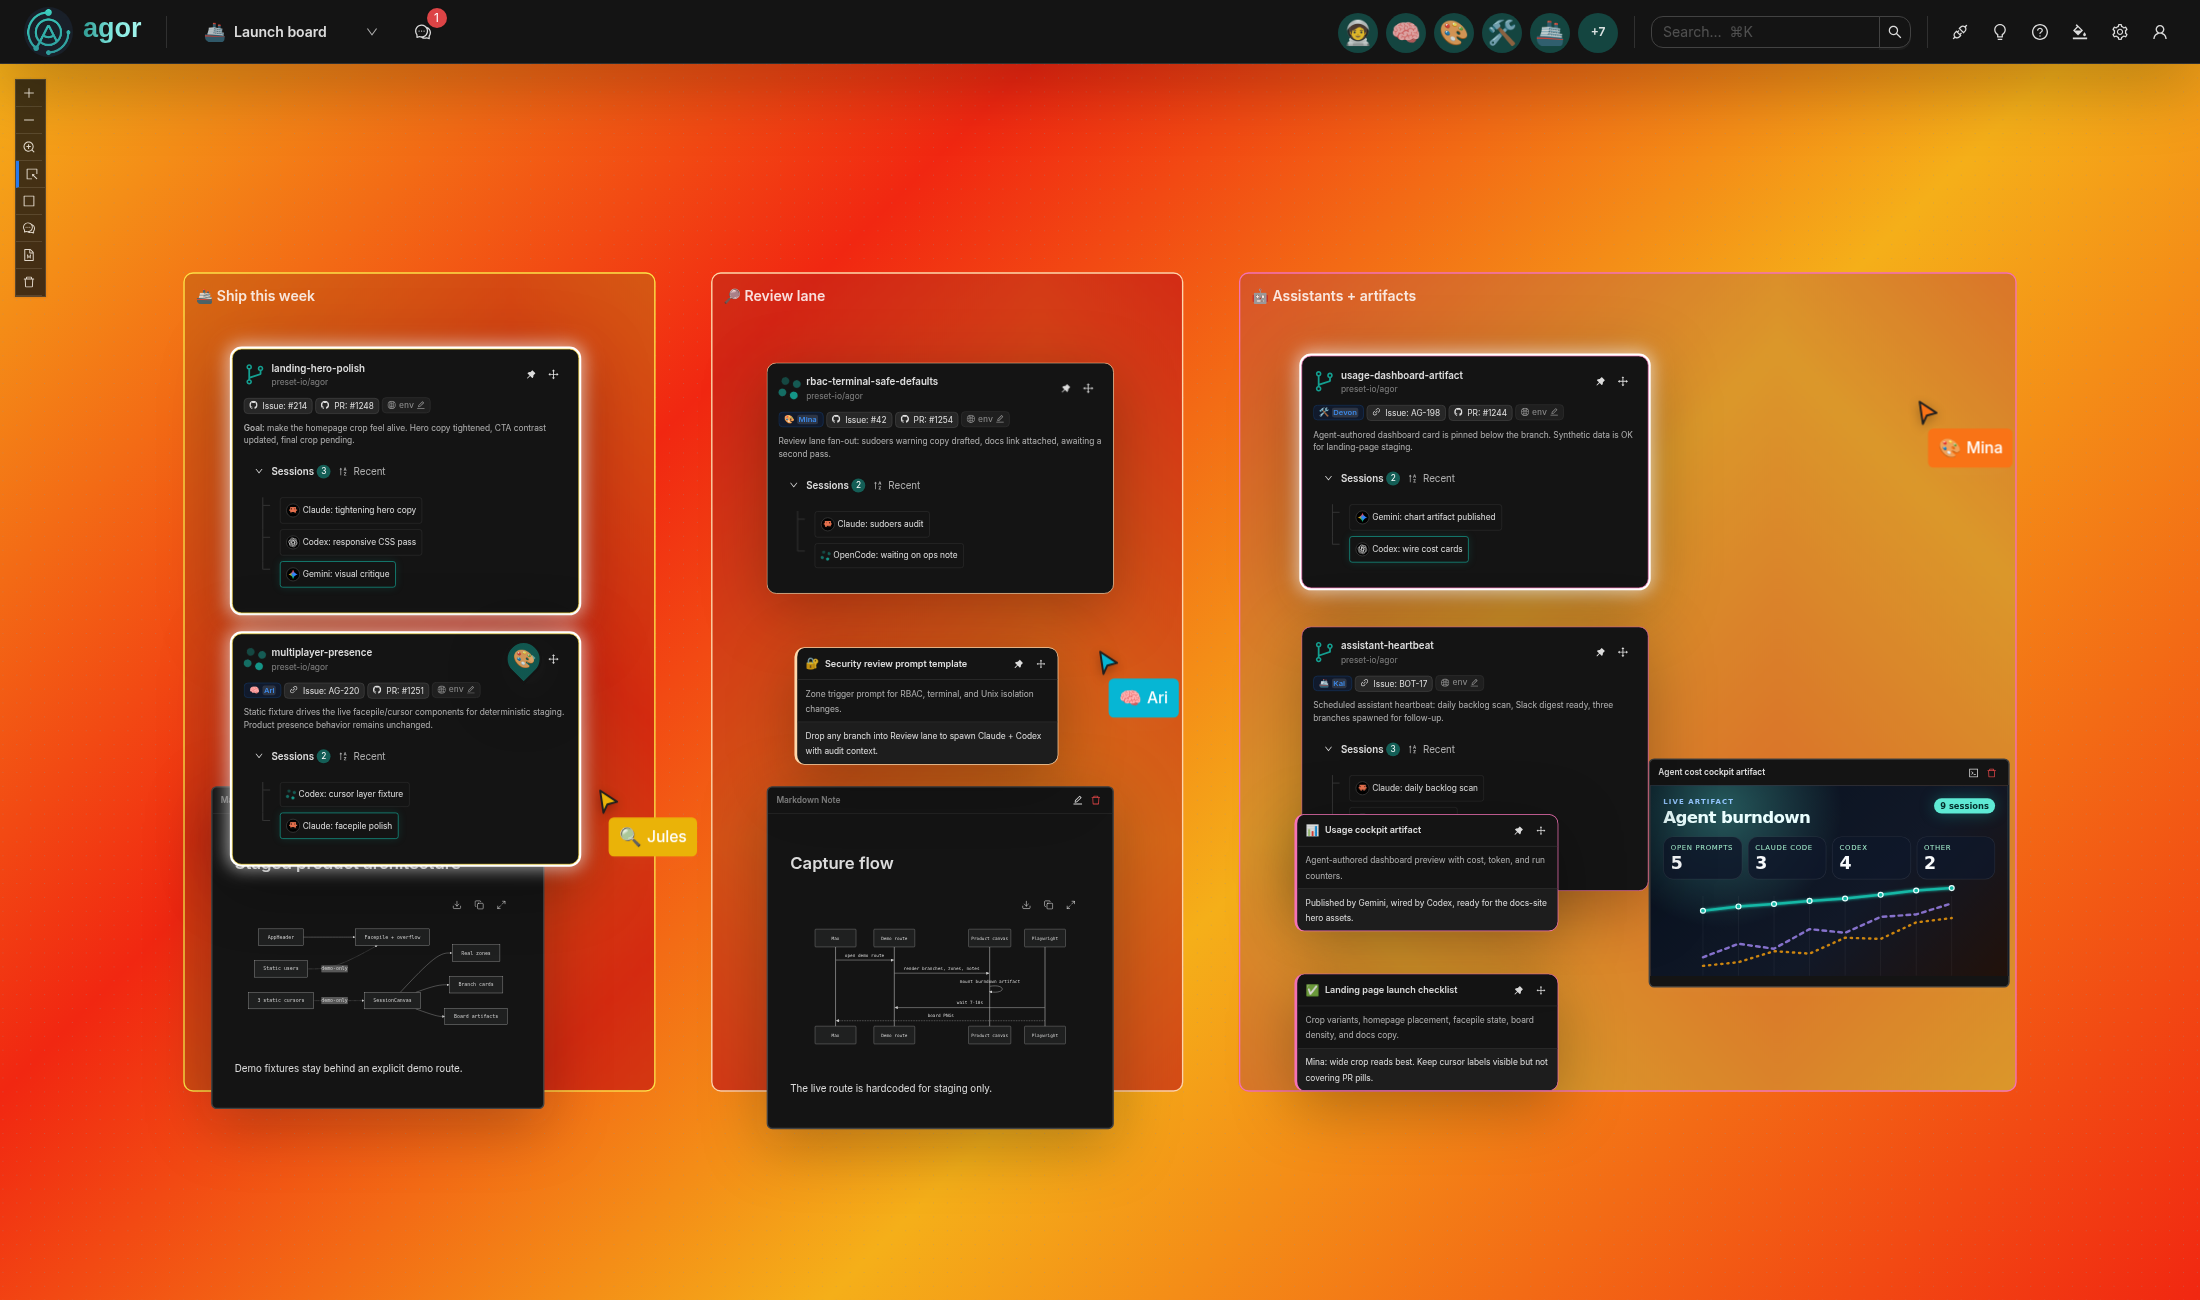
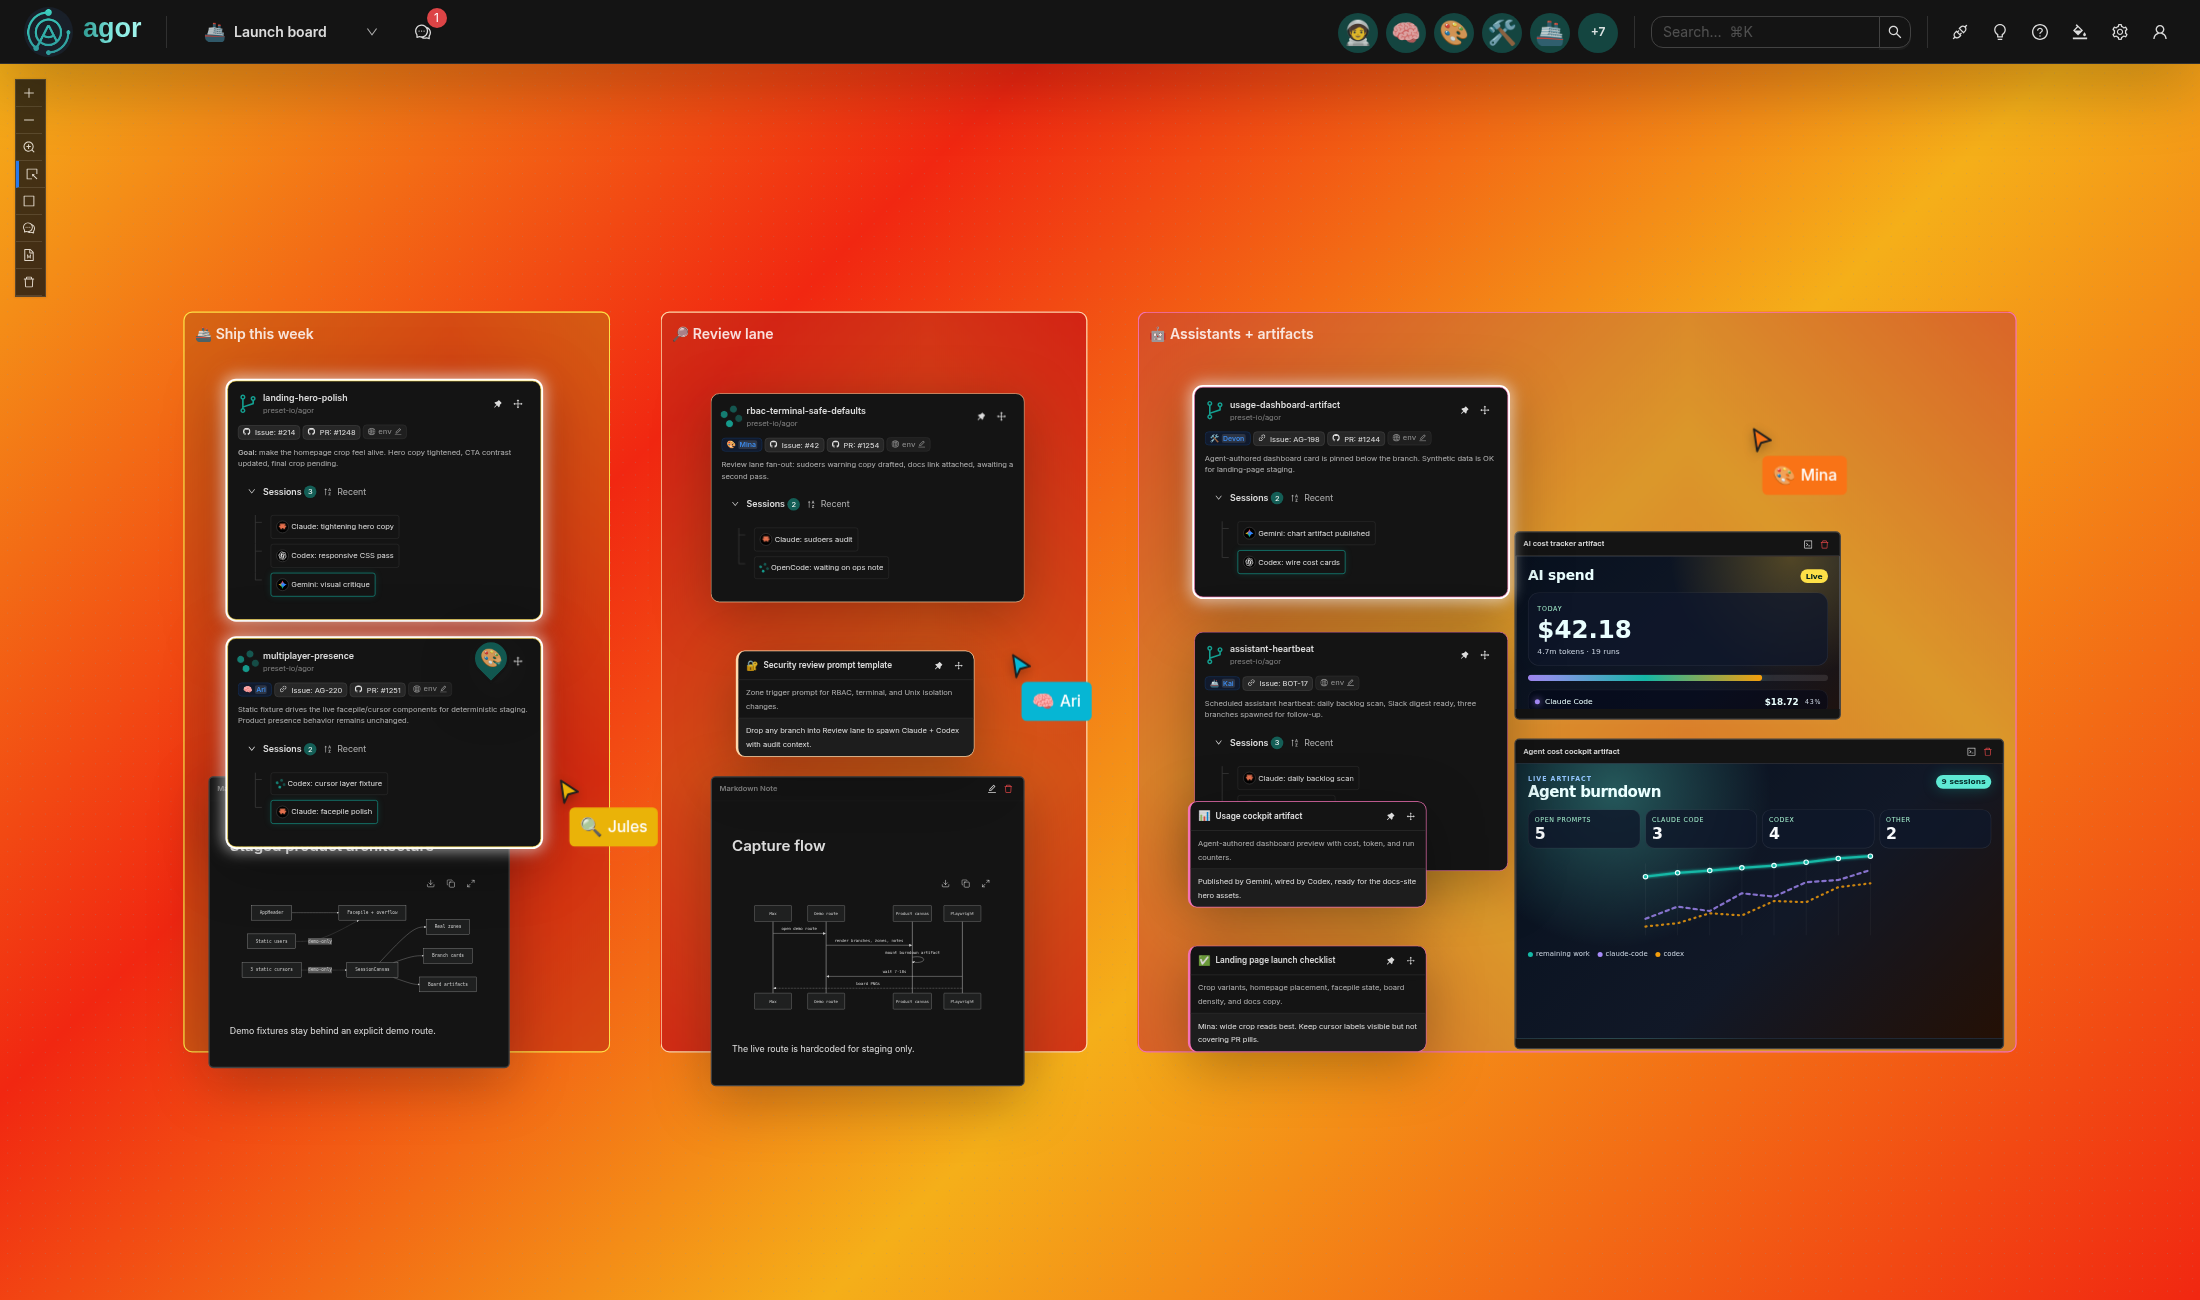
Enlarge marketing artifacts and add cost tracker

Changed region(s): [[0.0618, 0.1846, 0.9273, 0.8923], [0.8655, 0.3077, 0.9273, 0.3692]]

diff --git a/apps/agor-ui/src/pages/MarketingScreenshotPage.tsx b/apps/agor-ui/src/pages/MarketingScreenshotPage.tsx
@@ -92,7 +92,7 @@ const board: Board = {
       type: 'zone',
       x: 1580,
       y: 80,
-      width: 1120,
+      width: 1400,
       height: 1180,
       label: '🤖 Assistants + artifacts',
       borderColor: '#f472b6',
@@ -106,10 +106,10 @@ const board: Board = {
     },
     'app-usage-cockpit': {
       type: 'app',
-      x: 2170,
-      y: 780,
-      width: 520,
-      height: 330,
+      x: 2180,
+      y: 760,
+      width: 780,
+      height: 495,
       title: 'Agent cost cockpit artifact',
       description: 'Published by an assistant as a live board artifact.',
       template: 'react',
@@ -193,6 +193,64 @@ const board: Board = {
           footer span { display:flex; align-items:center; gap:5px; }
           i { width:8px; height:8px; border-radius:99px; display:inline-block; }
           .burn-dot { background:#14b8a6; }.claude-dot { background:#a78bfa; }.codex-dot { background:#f59e0b; }
+        `,
+      },
+    },
+
+    'app-ai-cost-tracker': {
+      type: 'app',
+      x: 2180,
+      y: 430,
+      width: 520,
+      height: 300,
+      title: 'AI cost tracker artifact',
+      description: 'Companion cost dashboard published by an assistant.',
+      template: 'react',
+      showEditor: false,
+      showConsole: false,
+      entryFile: '/App.js',
+      files: {
+        '/App.js': `
+          import './styles.css';
+
+          const rows = [
+            ['Claude Code', '$18.72', '43%', '#a78bfa'],
+            ['Codex', '$12.90', '31%', '#14b8a6'],
+            ['Other agents', '$10.56', '26%', '#f59e0b'],
+          ];
+
+          export default function App() {
+            return (
+              <main className="cost-card">
+                <header><span>AI spend</span><b>Live</b></header>
+                <section className="hero"><small>today</small><strong>$42.18</strong><em>4.7m tokens · 19 runs</em></section>
+                <div className="meter"><i /></div>
+                <div className="rows">
+                  {rows.map(([label, cost, pct, color]) => (
+                    <div className="row" key={label} style={{ '--color': color }}>
+                      <span><i />{label}</span><b>{cost}</b><small>{pct}</small>
+                    </div>
+                  ))}
+                </div>
+              </main>
+            );
+          }
+        `,
+        '/styles.css': `
+          body { margin:0; background:#07111f; color:#eaffff; font-family: Inter, ui-sans-serif, system-ui; }
+          .cost-card { min-height:100vh; box-sizing:border-box; padding:18px; background:radial-gradient(circle at 85% 0%, rgba(251,191,36,.28), transparent 34%), linear-gradient(135deg,#08111f,#111827 58%,#241005); border:1px solid rgba(255,255,255,.14); }
+          header { display:flex; justify-content:space-between; align-items:center; font-weight:900; letter-spacing:-.02em; }
+          header span { font-size:22px; } header b { color:#06251f; background:#fde047; padding:4px 9px; border-radius:999px; font-size:12px; }
+          .hero { margin:14px 0; padding:14px; border-radius:18px; background:rgba(15,23,42,.78); border:1px solid rgba(255,255,255,.09); }
+          small { color:#a7f3d0; text-transform:uppercase; font-size:10px; letter-spacing:.12em; }
+          strong { display:block; font-size:39px; line-height:1; margin:5px 0; }
+          em { color:#cbd5e1; font-style:normal; font-size:12px; }
+          .meter { height:10px; overflow:hidden; border-radius:99px; background:rgba(255,255,255,.10); margin:14px 0; }
+          .meter i { display:block; width:78%; height:100%; border-radius:99px; background:linear-gradient(90deg,#a78bfa,#14b8a6,#f59e0b); box-shadow:0 0 20px rgba(20,184,166,.42); }
+          .rows { display:grid; gap:8px; }
+          .row { display:grid; grid-template-columns:1fr auto auto; align-items:center; gap:10px; padding:10px; border-radius:14px; background:rgba(2,6,23,.55); border:1px solid rgba(255,255,255,.08); }
+          .row span { display:flex; align-items:center; gap:8px; font-size:12px; } .row i { width:8px; height:8px; border-radius:99px; background:var(--color); box-shadow:0 0 12px var(--color); }
+          .row b { font-size:14px; } .row small { color:#cbd5e1; }
         `,
       },
     },
